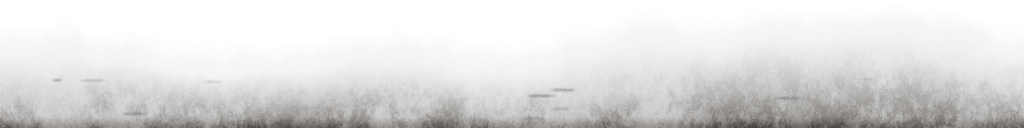
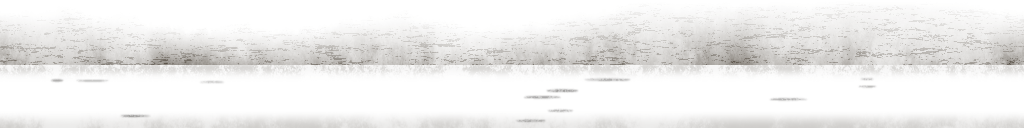
Passe triple A, vague 1 (en cours) : usure — décalques générés, wear.gd, bancs
Sauvegarde intermédiaire du lot V1-USURE pendant son travail ; l'intégration de
la vague suivra. __pycache__ ignoré.

Claude-Session: https://claude.ai/code/session_01Ku7s9dPW2dJ86ZjCwybWBe

diff --git a/godot/tools/make_wear.py b/godot/tools/make_wear.py
@@ -17,15 +17,19 @@ déterministe (graines fixes). Écrit dans godot/assets/decals/gen/ (avec les .i
   décalque selon l'alpha de l'albédo, et la couleur selon alpha × albedo_mix : une tache peut changer la
   rugosité sans changer la couleur (albedo_mix bas). Le haut de l'image va vers « up » (Wear.decal).
     tache_plafond_1..4   1024²      auréoles d'eau : bords de dépôt, cernes successifs, point de goutte
-    moisissure_1..2      1024²      1 : bande le long du bord haut (jonction mur-plafond) ; 2 : colonie
+    moisissure_1..2      1024²      colonies de points noirs, satellites, voile gris-vert, auréole
+                                    d'humidité ; 1 : bande le long du bord haut (jonction mur-plafond,
+                                    plus fournie à gauche) ; 2 : colonie ronde
     fissure_1..3         1024×512   fissures de plâtre (sillon en relief, éclats de peinture)
     suie_1..2            512²       1 : halo au plafond au-dessus d'une ampoule ; 2 : panache sur un mur
     chemin_usure_1..2    512×1024   usure de passage (v = le long du chemin) : couleur presque blanche,
                                     teintée par Wear selon le sol ; mate
     empreinte_1..6       256×512    pieds nus, orteils en haut ; impairs = pied gauche, pairs = droit ;
                                     rugosité 0,2 (mouillé)
-    crasse_pied_mur_1..3 1024×128   bande de pied de mur, sombre en bas, PÉRIODIQUE en u (les tronçons
-                                    d'un même mur se raccordent sans couture)
+    crasse_pied_mur_1..3 1024×128   bande de pied de mur (0,22 m, Wear.wall_base) : crasse juste au-dessus
+                                    de la plinthe de 11 cm (moitié basse de l'image), poussière sur la
+                                    plinthe et dans l'angle du sol ; PÉRIODIQUE en u (les tronçons d'un même
+                                    mur se raccordent sans couture)
     coin_1               512²       crasse d'angle (projetée en diagonale dans un coin de plafond)
   Décalques ambientCG adoucis : acg/<Id>_albedo.png, copie de ../acg/<Id>_albedo.png (lot V1-ASSETS)
     dont l'alpha s'éteint vers les bords (contour irrégulier) : ces motifs sont faits pour se répéter, et
@@ -374,55 +378,73 @@ def tache_plafond(v, S=1024):
 
 # ------------------------------------------------------------------ moisissure
 
-def _dots(S, W, dens, n, rmin, rmax, seed):
-    """Points sombres (colonies) tirés selon la densité « dens » (0 à 1), rayons en loi de puissance."""
+def _colonies(S, dens, n_col, seed, per=(20, 220), sig=(2.0, 22.0), rmax=2.6, K=2):
+    """Colonies de moisissure : des amas de points (gaussiens autour d'un centre tiré selon « dens »),
+    rayons en loi de puissance (surtout des points d'un pixel), plus gros et plus noirs au cœur."""
     rng = np.random.default_rng(seed)
-    canvas = Image.new("L", (W * 2, S * 2), 0)
+    canvas = Image.new("L", (S * K, S * K), 0)
     dr = ImageDraw.Draw(canvas)
-    placed = 0
-    tries = 0
-    while placed < n and tries < n * 30:
+    cols = tries = 0
+    while cols < n_col and tries < n_col * 60:
         tries += 1
-        px, py = rng.random() * W, rng.random() * S
+        px, py = rng.random() * S, rng.random() * S
         d = dens[int(py), int(px)]
-        if rng.random() > d * d:
+        if rng.random() > d ** 1.6:
             continue
-        r = rmin + (rmax - rmin) * rng.random() ** 3.0 * (0.4 + 0.6 * d)
-        g = int(150 + 105 * rng.random())
-        dr.ellipse([2 * (px - r), 2 * (py - r), 2 * (px + r), 2 * (py + r)], fill=g)
-        placed += 1
-    a = np.asarray(canvas.resize((W, S), Image.BOX), np.float64) / 255.0
-    return a
+        cols += 1
+        sg = sig[0] + (sig[1] - sig[0]) * rng.random() ** 1.6 * (0.4 + 0.6 * d)
+        m = int(per[0] + (per[1] - per[0]) * rng.random() ** 1.3 * d)
+        # points plus serrés au centre (loi de Student : quelques points égarés loin)
+        ox = rng.standard_t(3, m) * sg * 0.7
+        oy = rng.standard_t(3, m) * sg * 0.7
+        rr = np.sqrt(ox * ox + oy * oy) / sg
+        rad = 0.3 + rmax * rng.random(m) ** 3.4 * np.exp(-rr * 0.8) * (0.5 + 0.5 * d)
+        g = 120 + 135 * np.exp(-rr * 0.5) * (0.6 + 0.4 * rng.random(m))
+        for i in range(m):
+            x0, y0, r = px + ox[i], py + oy[i], rad[i]
+            dr.ellipse([K * (x0 - r), K * (y0 - r), K * (x0 + r), K * (y0 + r)], fill=int(min(255, g[i])))
+    return np.asarray(canvas.resize((S, S), Image.BOX), np.float64) / 255.0
 
 
 def moisissure(v, S=1024):
     seed = 2000 + v * 31
     x, y = grid(S, S)
     n1 = spectral(S, S, 2.6, seed + 1, kmin=1.0 / S)
+    n2 = spectral(S, S, 2.2, seed + 6, kmin=4.0 / S)
     if v == 1:
         # le long du bord haut (jonction mur-plafond), plus fournie vers le coin gauche
-        dens = sstep(0.0, 1.0, 1.0 - y / 0.62 + 0.28 * n1 + 0.25 * (1.0 - x))
-        dens *= sstep(0.0, 0.12, x + 0.03 * n1) * sstep(0.0, 0.2, 1.0 - x + 0.03 * n1)
+        raw = 1.0 - y / 0.58 + 0.34 * n1 + 0.3 * (1.0 - x) + 0.16 * n2
+        side = sstep(0.0, 0.1, x + 0.03 * n1) * sstep(0.0, 0.18, 1.0 - x + 0.03 * n1)
     else:
-        r = np.sqrt((x - 0.5) ** 2 + (y - 0.52) ** 2)
-        dens = sstep(0.0, 1.0, 1.0 - r / 0.42 + 0.3 * n1)
-    dens = np.clip(dens, 0.0, 1.0)
-    fine = _dots(S, S, dens, 9000, 0.5, 3.0, seed + 2)
-    big = _dots(S, S, dens, 500, 2.0, 7.5, seed + 3)
-    # amas : bruit seuillé (la moisissure pousse par plaques)
-    clump = sstep(0.55, 1.4, spectral(S, S, 1.9, seed + 4, kmin=6.0 / S) + (dens - 0.6) * 1.6)
-    dots = np.clip(fine + big + blur(clump, 1.0) * 0.8, 0.0, 1.0)
-    halo = blur(dots, 5.0) * 1.3
-    stain = dens ** 1.5 * (0.6 + 0.4 * sstep(-1.0, 1.0, n1))
+        r = np.sqrt((x - 0.5) ** 2 + ((y - 0.52) * 1.1) ** 2)
+        raw = 1.0 - r / 0.4 + 0.32 * n1 + 0.12 * n2
+        side = 1.0
+    dens = np.clip(sstep(0.0, 1.0, raw) * side, 0.0, 1.0)
+    col = _colonies(S, dens, 1500, seed + 2)
+    # colonies satellites, petites, au-delà du front (la moisissure gagne par taches isolées)
+    sat = np.clip(sstep(-0.45, 0.5, raw + 0.25 * n2) * (side if v == 1 else 1.0), 0.0, 1.0) * 0.8
+    col = np.maximum(col, _colonies(S, sat, 700, seed + 7, per=(4, 45), sig=(1.0, 7.0), rmax=1.8))
+    # semis très fin (spores, poussière grise) : grain qui épaissit vers le cœur
+    grain = sstep(1.2 + 1.4 * (1.0 - dens), 3.2, spectral(S, S, 0.2, seed + 3, kmin=80.0 / S)) * sstep(0.05, 0.5, dens)
+    specks = np.clip(col + 0.7 * grain, 0.0, 1.0)
+    # voile gris-vert autour des amas, et cœur presque continu là où la densité est forte
+    haze = np.clip(blur(specks, 4.0) * 1.6 + 0.5 * blur(specks, 14.0) * 1.6, 0.0, 1.0)
+    core = sstep(0.62, 0.95, dens + 0.15 * n2) * (0.55 + 0.45 * sstep(-0.5, 1.0, spectral(S, S, 1.6, seed + 4, kmin=10.0 / S)))
+    # auréole d'humidité : fond jaunâtre et ligne de dépôt au bord de la zone humide
+    wet = raw + 0.05
+    stain_in = sstep(-0.02, 0.25, wet) * side
+    tide = np.exp(-((wet + 0.0) / 0.035) ** 2) * side * (0.5 + 0.5 * sstep(-1.0, 1.0, n2))
     layers = [
-        ((0.42, 0.40, 0.29), np.clip(stain * 0.32, 0, 1)),           # auréole jaunâtre
-        ((0.2, 0.21, 0.15), np.clip(halo * 0.55, 0, 1)),            # gris-vert autour des colonies
-        ((0.045, 0.05, 0.035), np.clip(dots * 0.95, 0, 1)),         # colonies noires
+        ((0.56, 0.48, 0.32), stain_in * 0.2),
+        ((0.4, 0.31, 0.18), tide * 0.38),
+        ((0.25, 0.25, 0.2), haze * 0.42),
+        ((0.06, 0.065, 0.05), core * 0.55),
+        ((0.035, 0.04, 0.03), specks * 0.97),
     ]
     rgb, a = over(layers, S, S)
-    a *= edge_fade(S, S, 0.03, seed + 5, keep=("top",) if v == 1 else ())
-    height = blur(dots, 0.7) + 0.3 * blur(clump, 2.0)
-    save_decal("moisissure_%d" % v, rgb, a, height, 1.6, 1.0 - 0.15 * blur(dots, 2.0), 0.97, aux=2)
+    a *= edge_fade(S, S, 0.04, seed + 5, keep=("top",) if v == 1 else ())
+    height = blur(specks, 0.6) + 0.4 * blur(core, 2.0)
+    save_decal("moisissure_%d" % v, rgb, a, height, 1.4, 1.0 - 0.2 * blur(specks, 2.0), 0.97, aux=2)
 
 
 # ------------------------------------------------------------------ fissures
@@ -554,16 +576,15 @@ def chemin_usure(v, W=512, H=1024):
     half = 0.2 if v == 1 else 0.16
     prof = np.exp(-(X / half) ** 2)
     if v == 2:
-        # deux sillons (un pas à gauche, un pas à droite) qui se fondent
         prof = 0.55 * prof + 0.45 * (np.exp(-((X - 0.13) / 0.09) ** 2) + np.exp(-((X + 0.13) / 0.09) ** 2))
-    streaks = spectral(H, W, 2.0, seed + 3, kmin=1.0 / H, ax=1.0, ay=6.0)    # allongées le long de v
+    streaks = spectral(H, W, 2.0, seed + 3, kmin=1.0 / H, ax=1.0, ay=6.0)
     patches = sstep(-0.8, 0.9, spectral(H, W, 2.3, seed + 4, kmin=2.0 / H))
     ends = sstep(0.0, 0.16, y) * sstep(0.0, 0.16, 1.0 - y)
-    a = 0.72 * prof * ends * (0.5 + 0.5 * patches) * (0.78 + 0.22 * np.tanh(streaks))
+    a = 0.62 * prof * ends * (0.55 + 0.45 * patches) * (0.85 + 0.15 * np.tanh(streaks))
     a *= edge_fade(H, W, 0.04, seed + 5)
-    lum = 0.9 + 0.1 * np.tanh(streaks)
+    lum = 0.93 + 0.05 * np.tanh(streaks)
     rgb = np.dstack([lum, lum * 0.985, lum * 0.97])
-    save_decal("chemin_usure_%d" % v, rgb, a, None, 1.0, 1.0, 0.9 + 0.06 * np.tanh(streaks), aux=2)
+    save_decal("chemin_usure_%d" % v, rgb, a, None, 1.0, 1.0, 0.88 + 0.06 * np.tanh(streaks), aux=2)
 
 
 # ------------------------------------------------------------------ empreintes de pieds nus
@@ -627,39 +648,54 @@ def empreinte(n, W=256, H=512):
 # ------------------------------------------------------------------ crasse de pied de mur
 
 def crasse_pied_mur(v, W=1024, H=128):
+    """Bande de 0,22 m (Wear.wall_base) : le haut de l'image à 22 cm du sol, le bas au sol ; la plinthe
+    de Builder.trim (11 cm) en occupe la moitié basse. Le plus sombre juste au-dessus de la plinthe
+    (balai, aspirateur, chaussures), voile qui monte en s'effilochant ; sur la plinthe, poussière grise
+    et coups de chaussure ; liseré de poussière dans l'angle du sol. PÉRIODIQUE en u."""
     seed = 7000 + v * 23
     rng = np.random.default_rng(seed)
     x, y = grid(H, W)
-    # (le décalque est étiré d'environ 1,5 fois en largeur : motifs un peu plus serrés en u)
     n2 = spectral(H, W, 2.8, seed + 1, kmin=1.0 / W, ax=0.68)
     n3 = spectral(H, W, 2.0, seed + 2, kmin=8.0 / W, ax=0.68)
     front1 = spectral(1, W, 3.2, seed + 3)[0][None, :]
-    base_front = [0.5, 0.42, 0.32][(v - 1) % 3]
-    front = base_front + 0.1 * front1 + 0.03 * n2
-    g = np.clip((y - front) / (1.0 - front), 0.0, 1.0)
-    dust = 0.05 * sstep(front - 0.25, front, y)                    # voile au-dessus du front
-    a = 0.66 * g ** 1.3 * (0.72 + 0.28 * np.tanh(n2)) * (0.85 + 0.15 * np.tanh(n3)) + dust
-    # ligne de poussière dans l'angle du sol
-    a += 0.18 * sstep(0.9, 1.0, y)
-    # coups de chaussure, d'aspirateur, de balai : marques courtes et effilées près du bas (en boucle sur u)
+    PL = 0.5                                                  # dessus de la plinthe (11 cm sur 22)
+    top = [0.16, 0.08, 0.24][(v - 1) % 3]
+    front = top + 0.09 * front1 + 0.03 * n2
+    # au-dessus de la plinthe : de 0 au front à ~0,6 juste au-dessus du dessus de plinthe
+    g = np.clip((y - front) / (PL - front), 0.0, 1.0)
+    # plus ou moins sale le long du mur (meubles déplacés, passages), sans couture (périodique)
+    along = 0.55 + 0.45 * sstep(-1.2, 1.0, spectral(1, W, 2.4, seed + 7, kmin=2.0 / W)[0][None, :])
+    wall = 0.62 * g ** 1.5 * along * (0.72 + 0.28 * np.tanh(n2)) * (0.9 + 0.1 * np.tanh(n3)) * (y < PL + 0.01)
+    # traînées verticales légères (eau de lavage qui a coulé, bas de serpillière)
+    drips = sstep(0.6, 1.6, spectral(H, W, 1.6, seed + 6, kmin=6.0 / W, ax=1.0, ay=0.12)) * g * 0.25
+    wall = np.clip(wall + drips * (y < PL + 0.01), 0.0, 0.85)
+    # sur la plinthe : poussière grise sur le haut, coups de chaussure, liseré au sol
+    on_pl = (y >= PL + 0.01)
+    dust_top = np.exp(-((y - PL - 0.03) / 0.05) ** 2) * on_pl * (0.6 + 0.4 * np.tanh(n3)) * 0.28
+    floor_line = sstep(0.86, 1.0, y) * (0.7 + 0.3 * np.tanh(n2)) * 0.32
     K = 4
     sc = Image.new("L", (W * K, H * K), 0)
     dr = ImageDraw.Draw(sc)
-    for _ in range(int(rng.integers(6, 11))):
+    for _ in range(int(rng.integers(8, 14))):
         cx = rng.uniform(0, W)
-        cy = rng.uniform(0.6, 0.93) * H
-        ln = rng.uniform(8, 36)
-        th = rng.uniform(0.8, 2.6)
-        g8 = int(rng.uniform(90, 200))
+        cy = rng.uniform(0.6, 0.95) * H
+        ln = rng.uniform(10, 46)
+        th = rng.uniform(0.8, 2.4)
+        g8 = int(rng.uniform(110, 230))
         for off in (-W, 0, W):
             dr.ellipse([(cx + off - ln / 2) * K, (cy - th / 2) * K, (cx + off + ln / 2) * K, (cy + th / 2) * K], fill=g8)
-    scuffs = blur(np.asarray(sc.resize((W, H), Image.BOX), np.float64) / 255.0, 1.0, wrap=True)
+    scuffs = blur(np.asarray(sc.resize((W, H), Image.BOX), np.float64) / 255.0, 0.8, wrap=True)
     scuffs *= 0.6 + 0.4 * sstep(-1.0, 1.0, spectral(H, W, 1.8, seed + 4, kmin=10.0 / W))
-    layers = [((0.17, 0.15, 0.13), np.clip(a, 0.0, 0.85)), ((0.08, 0.07, 0.06), scuffs * 0.5)]
+    layers = [
+        ((0.21, 0.175, 0.13), wall),
+        ((0.45, 0.43, 0.4), dust_top),
+        ((0.4, 0.38, 0.35), floor_line),
+        ((0.07, 0.06, 0.05), scuffs * 0.55),
+    ]
     rgb, al = over(layers, H, W)
-    # tout en haut, rien (le décalque s'arrête à « h »)
-    al *= sstep(0.0, 0.08, y)
-    save_decal("crasse_pied_mur_%d" % v, rgb, al, None, 1.0, 1.0 - 0.12 * g, 0.95, aux=2)
+    al *= sstep(0.0, 0.06, y)
+    rough = 0.95 - 0.0 * g
+    save_decal("crasse_pied_mur_%d" % v, rgb, al, None, 1.0, 1.0 - 0.12 * wall, rough, aux=2)
 
 
 # ------------------------------------------------------------------ coin de plafond
@@ -669,12 +705,14 @@ def coin(v, S=512):
     x, y = grid(S, S)
     r = np.sqrt((x - 0.5) ** 2 + (y - 0.5) ** 2)
     n = spectral(S, S, 2.6, seed + 1, kmin=1.0 / S)
-    specks = sstep(2.2, 3.0, spectral(S, S, 0.6, seed + 2, kmin=30.0 / S))
-    a = 0.55 * (1.0 - sstep(0.0, 0.5, r * (1.0 + 0.22 * n))) ** 2.0
-    a = np.clip(a * (0.75 + 0.25 * np.tanh(spectral(S, S, 1.8, seed + 3, kmin=6.0 / S))) + specks * a * 0.8, 0, 0.9)
+    specks = sstep(2.0, 2.9, spectral(S, S, 0.6, seed + 2, kmin=30.0 / S))
+    fib = sstep(1.2, 2.2, spectral(S, S, 1.4, seed + 5, kmin=12.0 / S, ax=1.0, ay=0.25))   # filaments (toiles)
+    body = (1.0 - sstep(0.0, 0.5, r * (1.0 + 0.25 * n))) ** 1.6
+    a = 0.72 * body * (0.72 + 0.28 * np.tanh(spectral(S, S, 1.8, seed + 3, kmin=6.0 / S)))
+    a = np.clip(a + specks * body * 0.7 + fib * body * 0.25, 0, 0.92)
     a *= edge_fade(S, S, 0.03, seed + 4)
     rgb = np.zeros((S, S, 3))
-    rgb[...] = (0.2, 0.19, 0.17)
+    rgb[...] = (0.19, 0.18, 0.16)
     save_decal("coin_%d" % v, rgb, a, None, 1.0, 1.0 - 0.15 * a, 0.96, aux=4)
 
 
